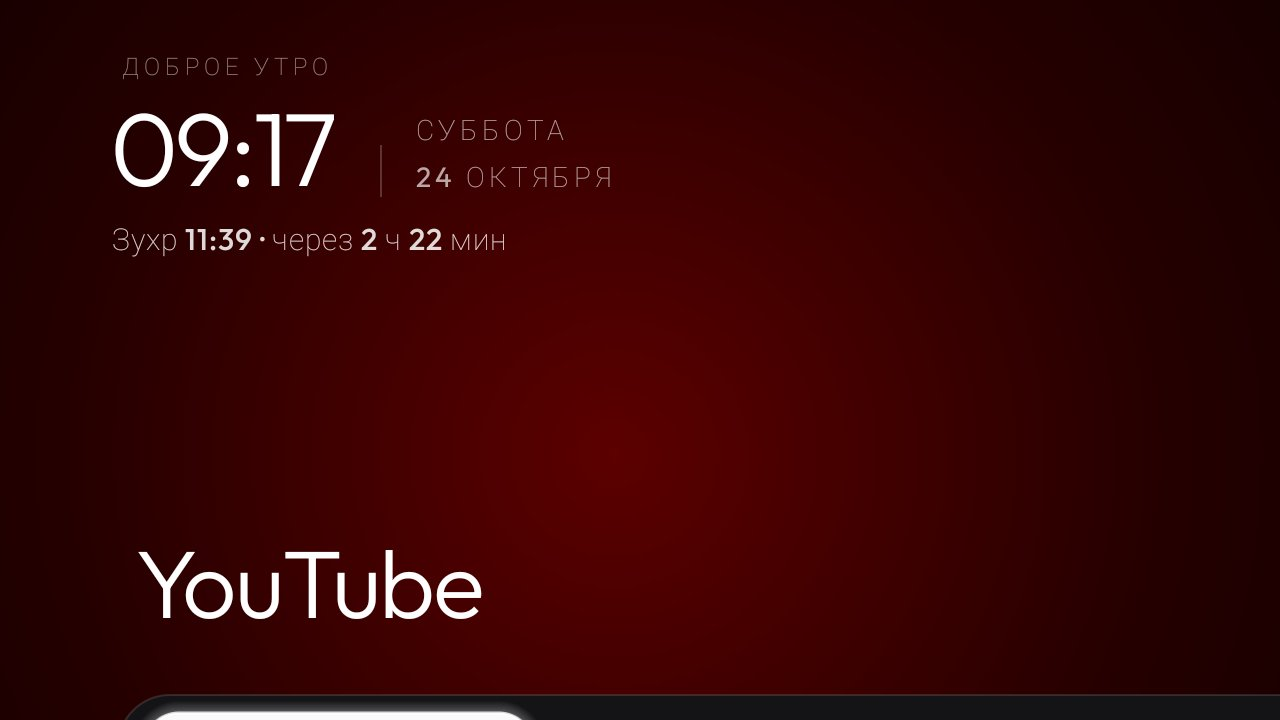
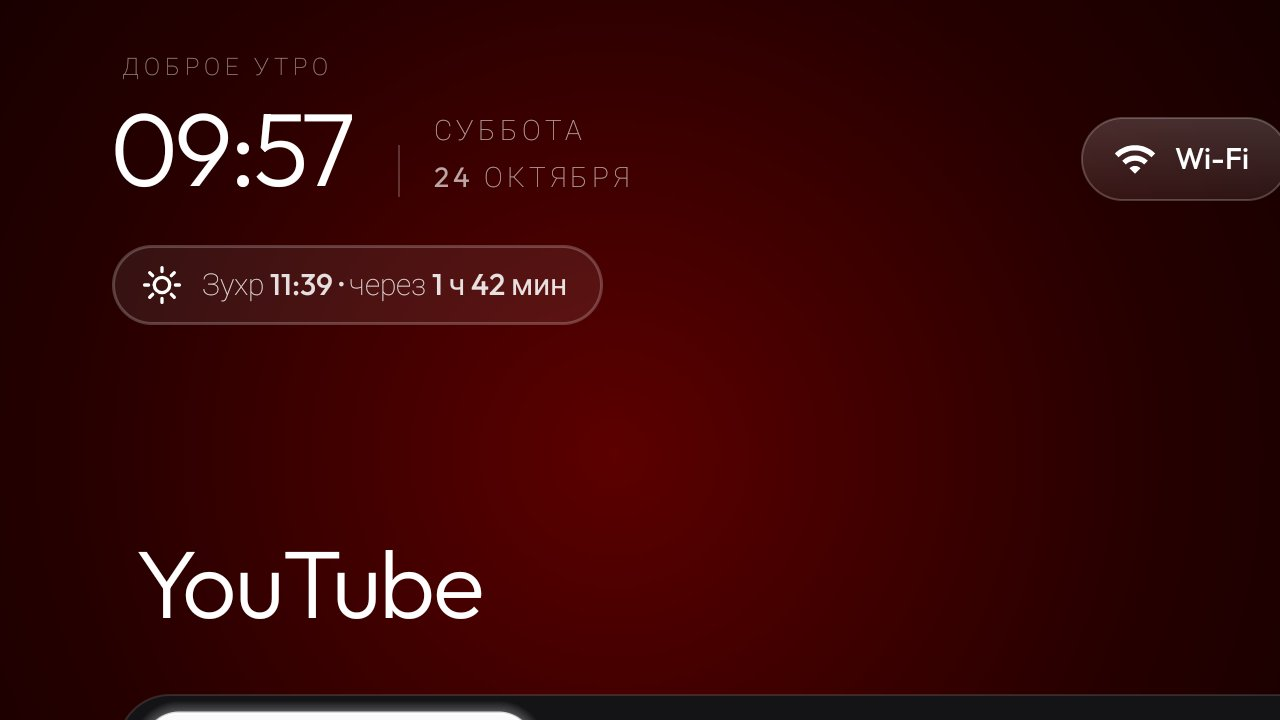
Launcher: строка намаза — стеклянная капсула с иконкой каждого намаза
Строка под часами стала нефокусируемой капсулой в стиле верхних пилюль (вариант A
владельца): фон #12FFFFFF, обводка 1.5dp #38FFFFFF, высота 40dp, отступ сверху 16dp;
слева line-иконка намаза 22dp, время и длительность — жирным. Пять vector-иконок
ic_prayer_* (stroke 1.8, round caps/joins, приглушённые линии через strokeAlpha) —
и в капсуле, и в плашке-уведомлении. Отладочный $Shell принимает --ei prayer 0..4,
чтобы показать плашку конкретного намаза. Скриншот docs/switches/prayer_times.jpg
обновлён. Проверено на Mi TV Stick, Android 9: все пять иконок поверх YouTube.

diff --git a/launcher/app/src/main/java/com/gathin/tvhome/PrayerNotice.java b/launcher/app/src/main/java/com/gathin/tvhome/PrayerNotice.java
@@ -10,11 +10,15 @@ import android.content.Intent;
 import android.content.pm.PackageManager;
 import android.content.res.Resources;
 import android.graphics.PixelFormat;
+import android.graphics.Typeface;
 import android.graphics.drawable.GradientDrawable;
 import android.os.Build;
 import android.os.Handler;
 import android.os.Looper;
 import android.provider.Settings;
+import android.text.SpannableString;
+import android.text.Spanned;
+import android.text.style.StyleSpan;
 import android.util.Log;
 import android.view.Gravity;
 import android.view.View;
@@ -51,14 +55,20 @@ public class PrayerNotice extends BroadcastReceiver {
 
     /**
      * {@code adb shell am broadcast -n com.gathin.tvhome/.PrayerNotice\$Shell}: shows the notice for the nearest
-     * prayer now, to check how it looks over an app. Exported only to senders holding DUMP (the adb shell and the
-     * system; no installed app can get it), and disabled with the rest while prayer_times is off.
+     * prayer now, to check how it looks over an app; {@code --ei prayer 0..4} picks fajr..isha of that day instead.
+     * Exported only to senders holding DUMP (the adb shell and the system; no installed app can get it), and disabled
+     * with the rest while prayer_times is off.
      */
     public static final class Shell extends BroadcastReceiver {
         @Override
         public void onReceive(Context context, Intent intent) {
             PrayerTimes t = table(context);
-            if (t != null) show(context, t.next(Instant.now()));
+            if (t == null) return;
+            PrayerTimes.Time next = t.next(Instant.now());
+            // --ei prayer 0..4 (fajr..isha): that prayer of the same day instead, to check each icon.
+            int i = intent.getIntExtra("prayer", -1);
+            if (i >= 0 && i < PrayerTimes.Prayer.values().length) next = t.day(next.at.toLocalDate()).get(i);
+            show(context, next);
         }
     }
 
@@ -138,14 +148,33 @@ public class PrayerNotice extends BroadcastReceiver {
         }
     }
 
-    /** "Asr 14:29 · in 1 h 12 min", for the line under the clock. */
-    static String line(Resources res, PrayerTimes t, Instant now) {
-        PrayerTimes.Time next = t.next(now);
+    /** Each prayer's line icon, in the capsule under the clock and on the notice. */
+    static int icon(PrayerTimes.Prayer p) {
+        switch (p) {
+            case FAJR: return R.drawable.ic_prayer_fajr;
+            case DHUHR: return R.drawable.ic_prayer_dhuhr;
+            case ASR: return R.drawable.ic_prayer_asr;
+            case MAGHRIB: return R.drawable.ic_prayer_maghrib;
+            default: return R.drawable.ic_prayer_isha;
+        }
+    }
+
+    /** "Asr <b>14:29</b> · in <b>1 h 12 min</b>" for {@code next}, the line under the clock. */
+    static CharSequence line(Resources res, PrayerTimes.Time next, Instant now) {
         long minutes = PrayerTimes.minutesUntil(now, next.at.toInstant());
         String in = minutes < 60 ? res.getString(R.string.prayer_in_minutes, minutes)
                 : minutes % 60 == 0 ? res.getString(R.string.prayer_in_hours_whole, minutes / 60)
                 : res.getString(R.string.prayer_in_hours, minutes / 60, minutes % 60);
-        return res.getString(R.string.prayer_line, name(res, next.prayer), next.clock(), in);
+        String name = name(res, next.prayer), clock = next.clock();
+        SpannableString line = new SpannableString(res.getString(R.string.prayer_line, name, clock, in));
+        // Found in the formatted text, so a translation may order the parts its own way.
+        bold(line, line.toString().indexOf(clock), clock.length());
+        bold(line, line.toString().lastIndexOf(in), in.length());
+        return line;
+    }
+
+    private static void bold(SpannableString s, int start, int length) {
+        if (start >= 0) s.setSpan(new StyleSpan(Typeface.BOLD), start, start + length, Spanned.SPAN_EXCLUSIVE_EXCLUSIVE);
     }
 
     /**
@@ -165,6 +194,9 @@ public class PrayerNotice extends BroadcastReceiver {
         text.setTextColor(0xFFFFFFFF);
         text.setTextSize(16f);
         text.setSingleLine(true);
+        text.setGravity(Gravity.CENTER_VERTICAL);
+        text.setCompoundDrawablesRelativeWithIntrinsicBounds(icon(prayer.prayer), 0, 0, 0);
+        text.setCompoundDrawablePadding((int) (10 * dp));
         text.setPadding((int) (18 * dp), (int) (10 * dp), (int) (18 * dp), (int) (10 * dp));
         GradientDrawable bg = new GradientDrawable();
         bg.setColor(0xD9101418);

diff --git a/launcher/app/src/main/java/com/gathin/tvhome/MainActivity.java b/launcher/app/src/main/java/com/gathin/tvhome/MainActivity.java
@@ -2314,6 +2314,8 @@ public class MainActivity extends Activity implements AppAdapter.TileListener {
     // ---- prayer times (prayer_times) ----------------------------------------------------------------
 
     private final Runnable prayerTick = this::updatePrayer;
+    /** The prayer whose icon the capsule shows, so the drawable is only set when it changes. */
+    private PrayerTimes.Prayer prayerIcon;
 
     /**
      * "Asr 14:29 · in 1 h 12 min" under the clock. Re-set on the minute, in step with the clock rather than with
@@ -2323,7 +2325,13 @@ public class MainActivity extends Activity implements AppAdapter.TileListener {
         if (prayerTimes == null) return;
         handler.removeCallbacks(prayerTick);
         long now = System.currentTimeMillis();
-        prayerLine.setText(PrayerNotice.line(getResources(), prayerTimes, java.time.Instant.ofEpochMilli(now)));
+        java.time.Instant at = java.time.Instant.ofEpochMilli(now);
+        PrayerTimes.Time next = prayerTimes.next(at);
+        prayerLine.setText(PrayerNotice.line(getResources(), next, at));
+        if (next.prayer != prayerIcon) {
+            prayerIcon = next.prayer;
+            prayerLine.setCompoundDrawablesRelativeWithIntrinsicBounds(PrayerNotice.icon(next.prayer), 0, 0, 0);
+        }
         prayerLine.setVisibility(View.VISIBLE);
         if (!stopped) handler.postDelayed(prayerTick, MINUTE_MS - now % MINUTE_MS + 50);
     }
